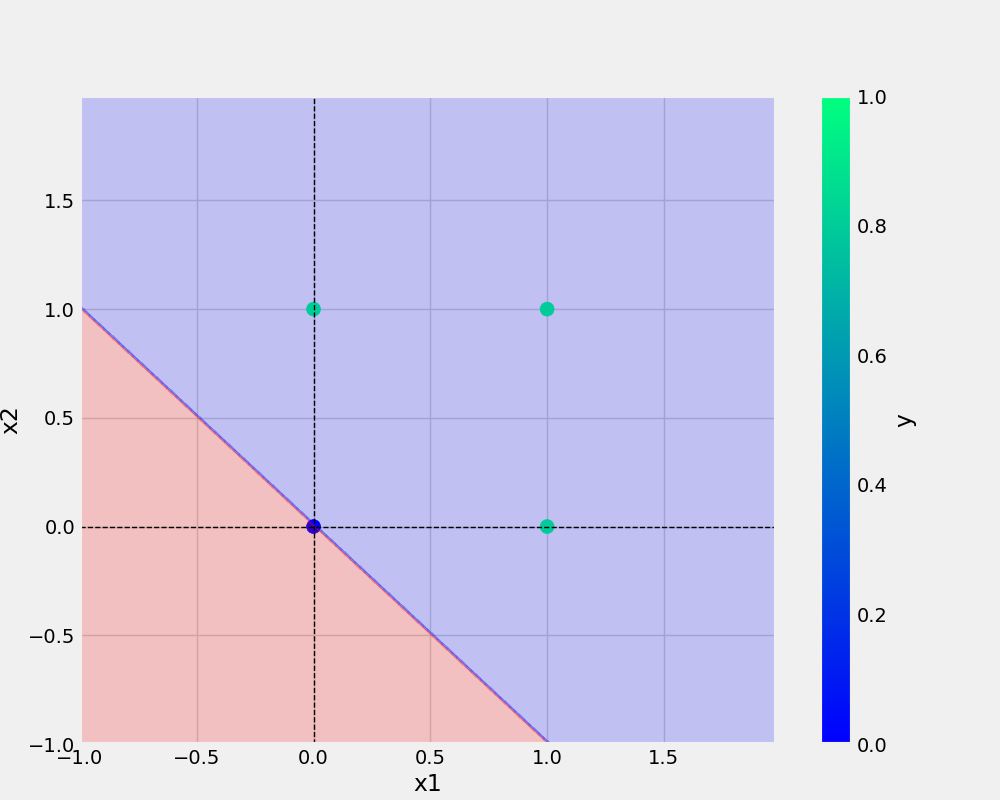
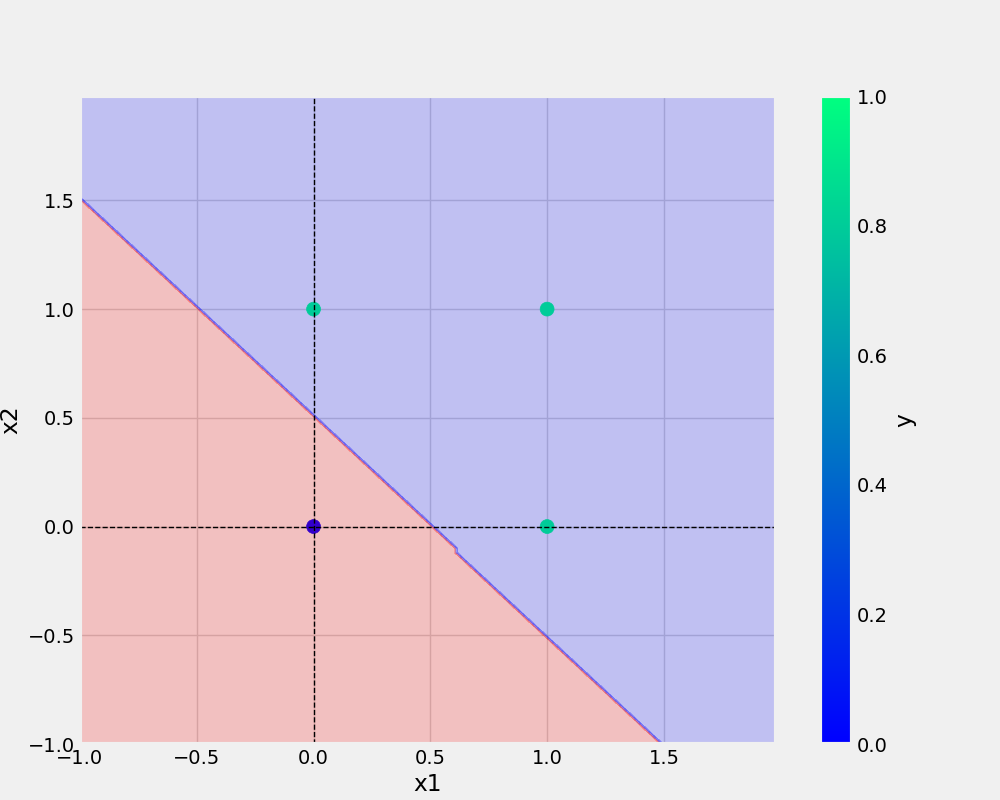
logging added and progess bar donce

Changed region(s): [[0.062, 0.25, 0.651, 0.9375], [0.651, 0.9375, 0.682, 0.9688]]

diff --git a/utils/all_utils.py b/utils/all_utils.py
@@ -4,6 +4,8 @@ import pandas as pd
 import joblib # For saving my model as a Binary file
 from matplotlib.colors import ListedColormap
 import os
+import logging
+
 
 plt.style.use("fivethirtyeight")
 
@@ -19,7 +21,7 @@ def prepare_data(df):
       tuple: it returns the tuples of depedent variables and indepedent variables
   """
 
-  
+  logging.info("Preparing the data by segregating the indepedent and depedent variables")
   X=df.drop("y", axis=1)
   y=df["y"]
   return X,y
@@ -31,15 +33,18 @@ def save_model(model, filename):
       model (python object): trained model to
       filename (str): path to save trained model
   """
+  logging.info("saving the trained model")
   model_dir = "models"
   os.makedirs(model_dir, exist_ok=True) # Only create if model_Dir doesn't exists
   filePath = os.path.join(model_dir, filename) # model/filename
   joblib.dump(model, filePath)
+  logging.info(f"save the trained model {filePath}")
 
 def save_plot(df, file_name, model):
 
 
   def _create_base_plot(df):
+    logging.info("create the base plot")
     df.plot(kind="scatter", x="x1", y="x2", c="y", s=100, cmap="winter")
     plt.axhline(y=0, color="black", linestyle="--", linewidth=1)
     plt.axvline(x=0, color="black", linestyle="--", linewidth=1)
@@ -47,6 +52,7 @@ def save_plot(df, file_name, model):
     figure.set_size_inches(10,8)
 
   def _plot_decision_regions(X, y, classfier, resolution=0.02):
+    logging.info("plotting the decision regions")
     colors=("red", "blue", "lightgreen", "gray", "cyan")
     cmap =ListedColormap(colors[: len(np.unique(y))])
     
@@ -58,8 +64,6 @@ def save_plot(df, file_name, model):
     
     xx1, xx2 =np.meshgrid(np.arange(x1_min, x1_max, resolution), 
                           np.arange(x2_min, x2_max, resolution))
-    print(xx1)
-    print(xx1.ravel())
     Z = classfier.predict(np.array([xx1.ravel(), xx2.ravel()]).T)
     Z=Z.reshape(xx1.shape)
     plt.contourf(xx1, xx2, Z,alpha=0.2, cmap=cmap)
@@ -77,3 +81,4 @@ def save_plot(df, file_name, model):
   os.makedirs(plot_dir, exist_ok=True) # Only create if model_dir doesn't exists
   plotPath =os.path.join(plot_dir, file_name)
   plt.savefig(plotPath)
+  logging.info("saving the plot at {plotPath}")

diff --git a/utils/model.py b/utils/model.py
@@ -1,9 +1,11 @@
 import numpy as np
+import logging
+from tqdm import tqdm
 
 class Perceptron:
   def __init__(self, eta, epochs):
     self.weights=np.random.randn(3) * 1e-4 #SMall weight init
-    print(f"initial weights before training: \n{self.weights}")
+    logging.info(f"initial weights before training: \n{self.weights}")
     self.eta=eta # LEARNING RATE
     self.epochs =epochs
         
@@ -17,20 +19,20 @@ class Perceptron:
     self.y = y
         
     X_with_bias = np.c_[self.X, -np.ones((len(self.X), 1))]  # Concatination
-    print(f"X with bias: \n{X_with_bias}")
+    logging.info(f"X with bias: \n{X_with_bias}")
 
-    for epoch in range(self.epochs):
-      print("_ _"*10)
-      print(f"for epoch:{epoch}")
-      print("_ _"*10)
+    for epoch in tqdm(range(self.epochs), total=self.epochs, desc="training the model"):
+      logging.info("_ _"*10)
+      logging.info(f"for epoch:{epoch}")
+      logging.info("_ _"*10)
     
       y_hat =self.activationFunction(X_with_bias, self.weights)  #Forward Propagation
-      print(f"predicted value after forward pass:\n{y_hat}")
+      logging.info(f"predicted value after forward pass:\n{y_hat}")
       self.error=self.y-y_hat
-      print(f"error:\n{self.error}")
+      logging.info(f"error:\n{self.error}")
       self.weights=self.weights+self.eta*np.dot(X_with_bias.T, self.error) # Backward Propagation
-      print(f"updated weights after epoch:\n{epoch}\/{self.epochs}:\n{self.weights}")
-      print("#####"*10)
+      logging.info(f"updated weights after epoch:\n{epoch}\/{self.epochs}:\n{self.weights}")
+      logging.info("#####"*10)
     
   def predict(self,X):
     X_with_bias = np.c_[X, -np.ones((len(X), 1))]
@@ -38,6 +40,6 @@ class Perceptron:
 
   def total_loss(self):
     total_loss=np.sum(self.error)
-    print(f"total loss:{total_loss}")
+    logging.info(f"total loss:{total_loss}")
     return total_loss
 

diff --git a/or.py b/or.py
@@ -1,14 +1,22 @@
 
 from fileinput import filename
+import os
 from utils.model import Perceptron
 from utils.all_utils import prepare_data, save_model, save_plot
 import pandas as pd
 import numpy as np
+import logging
+import os
+
+logging_str = "[%(asctime)s: %(levelname)s: %(module)s] %(massage)s"
+log_dir = "logs"
+os.makedirs(log_dir, exist_ok=True)
+logging.basicConfig(filename= os.path.join(log_dir,"running_logs.log"), level=logging.INFO, format=logging_str)
 
 def main(data, eta, epochs, filename, plotFileName):
 
     df = pd.DataFrame(data)
-    print(df)
+    logging.info(f"This is actual dataframe{df}")
     X,y = prepare_data(df)
 
     model = Perceptron(eta=eta, epochs=epochs)
@@ -28,7 +36,10 @@ if __name__ == '__main__':      # << Entry point
     }
 
     ETA= 0.3 #0 and 1
-    EPOCHS =10
-
-    main(data=OR, eta=ETA, epochs=EPOCHS, filename="or.model", plotFileName="or.png")
-
+    EPOCHS =100
+    try:
+        logging.info(">>>>> starting training >>>>>")
+        main(data=OR, eta=ETA, epochs=EPOCHS, filename="or.model", plotFileName="or.png")
+        logging.info("<<<<< training done successfully<<<<<\n")
+    except Exception as e:
+        logging.exception(e)
